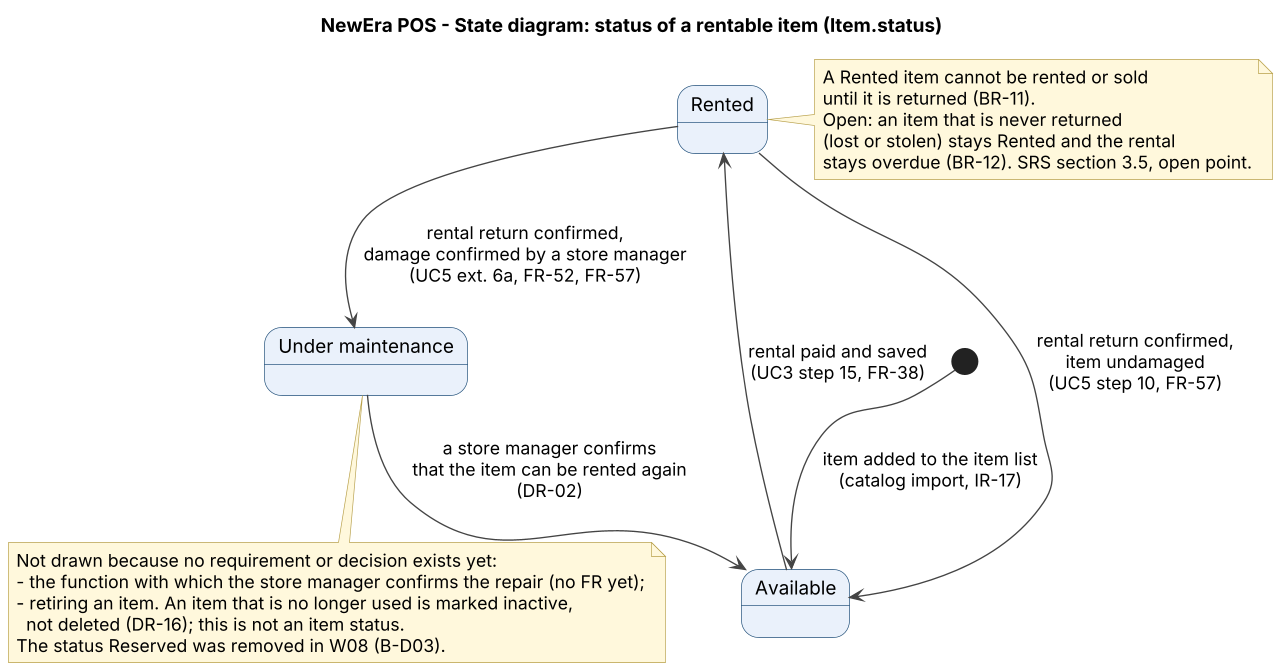
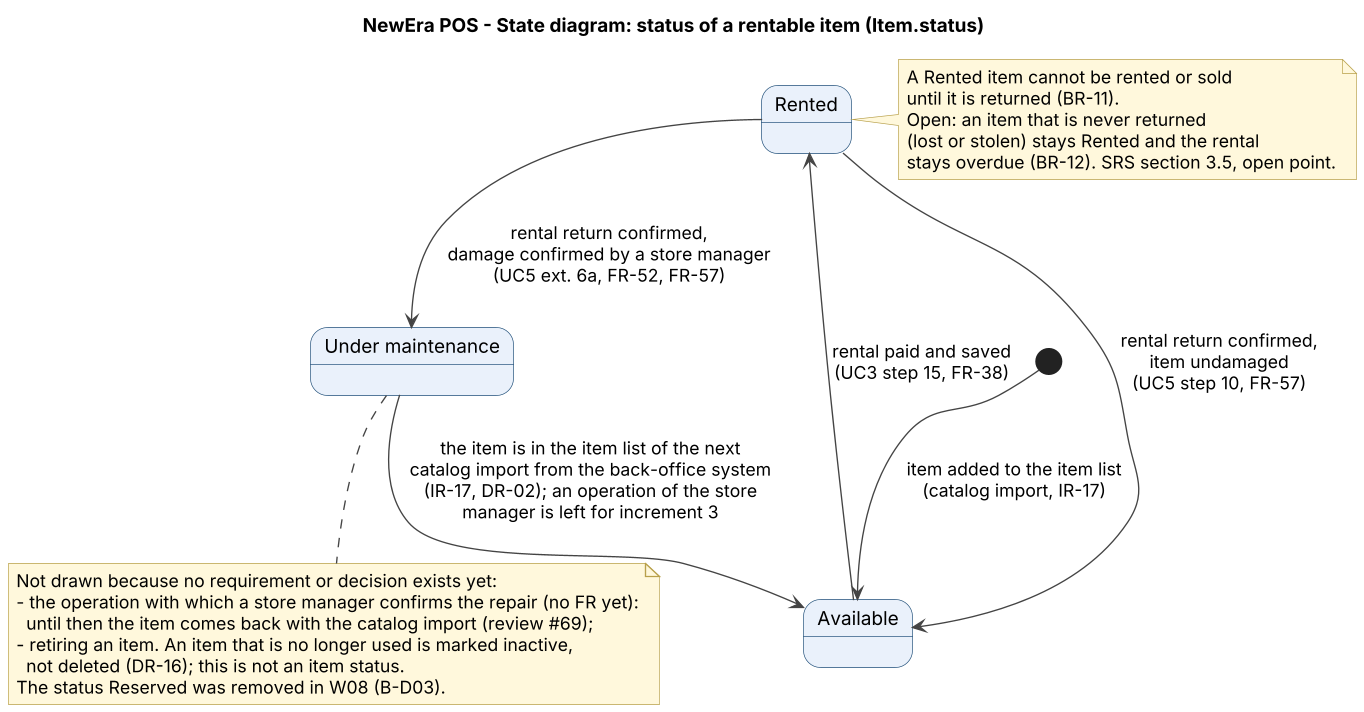
W11 - Domain model v0.9; review #69 (item under maintenance comes back with the catalog import, RecordStatus)

diff --git a/docs/design/domain_model.md b/docs/design/domain_model.md
@@ -3,7 +3,7 @@
 | | |
 | --- | --- |
 | **Maintainer** | Borja Nicolás |
-| **Version** | 0.8 (draft for review; state diagrams of the cashier session and of the refund) |
+| **Version** | 0.9 (draft for review; review #69: maintenance transition and record status) |
 | **Last updated** | W11 |
 | **Part of** | Increment 2 (Design), input to the SRS section 3.5, the [system sequence diagram](system_sequence_diagrams.md) and the [operation contracts](operation_contracts.md) |
 
@@ -44,7 +44,7 @@ Names follow the glossary. The names used in the [operation contracts](operation
 | **Receipt** | Printed record of a transaction; it can be printed again. | `number`, `printedAt` | FR-16, FR-17 |
 | **AccountingRecord** | The record of a completed transaction sent, or queued to be sent, to the Accounting System. The transaction ID lets the Accounting System ignore a record that arrives twice. | `transactionID`, `status`, `queuedAt`, `sentAt` | BR-14, IR-06, IR-07 |
 
-**Enumeration types** (not drawn): `ItemStatus` = Available, Rented, UnderMaintenance (*Reserved* was removed in W08, review #50, B-D03: no use case reserves an item); `ItemCondition` = Undamaged, Damaged; `TenderType` = Cash, CreditCard, Check; `EmployeeRole` = Cashier, StoreManager; `RecordStatus` = Queued, Sent.
+**Enumeration types** (not drawn): `ItemStatus` = Available, Rented, UnderMaintenance (*Reserved* was removed in W08, review #50, B-D03: no use case reserves an item); `ItemCondition` = Undamaged, Damaged; `TenderType` = Cash, CreditCard, Check; `EmployeeRole` = Cashier, StoreManager; `RecordStatus` = Waiting, Rejected (a record is deleted after the acknowledgement, DR-12; a `Rejected` one stays first with its reason, AD-06).
 
 The four external systems (Payment Service, Tax Calculator, Accounting System, HR System) are actors and are **not** part of the domain model. Their data appears here only as attributes (`authorizationCode`, `tax`, `AccountingRecord`, `Employee`).
 
@@ -110,7 +110,7 @@ The state diagrams show how the **status of an item**, the **life of a rental**,
 | Available → Rented | A rental is paid and saved (UC3 step 15) | FR-38, BR-11 |
 | Rented → Available | A rental return of an undamaged item is confirmed (UC5 step 10) | FR-57 |
 | Rented → Under maintenance | A rental return of a damaged item is confirmed, with the damage confirmed by a store manager (UC5 ext. 6a) | FR-52, FR-57 |
-| Under maintenance → Available | A store manager confirms that the item can be rented again | DR-02 |
+| Under maintenance → Available | The item is in the item list of the next catalog import from the back-office system; an operation of the store manager is left for increment 3 (review #69) | DR-02, IR-17 |
 
 ### 7.2 Life of a rental
 
@@ -165,6 +165,6 @@ A return that is already saved (the pending case) stays in NEEDS_APPROVAL until 
 
 Drawing the diagrams showed three points that the SRS did not cover. Point 2 is closed since SRS v1.3 (FR-77); points 1 and 3 are still open.
 
-1. **Repair of an item.** DR-02 says that a store manager confirms the change from *Under maintenance* to *Available*, but no functional requirement describes this function.
+1. **Repair of an item.** DR-02 says that a store manager confirms the change from *Under maintenance* to *Available*, but no functional requirement describes this function. Until it exists, the item becomes *Available* with the next catalog import (IR-17); the operation of the store manager is left for increment 3 (review #69).
 2. ~~**Pending refund.**~~ Closed (SRS v1.3, FR-77, W10): the cashier asks the Payment Service again for the status of a pending refund; if it turns out to have failed, a store manager approves a cash refund (FR-25, FR-55). The state diagram of the refund (§7.4) shows it.
 3. **Item that is never returned.** The SRS keeps it as an open point (section 3.5): the item stays *Rented* and the rental stays *Overdue*, so the customer is blocked (BR-12) and the deposit is not settled. The status transitions of a lost or stolen item depend on the answer of the store manager (interview before W11).
